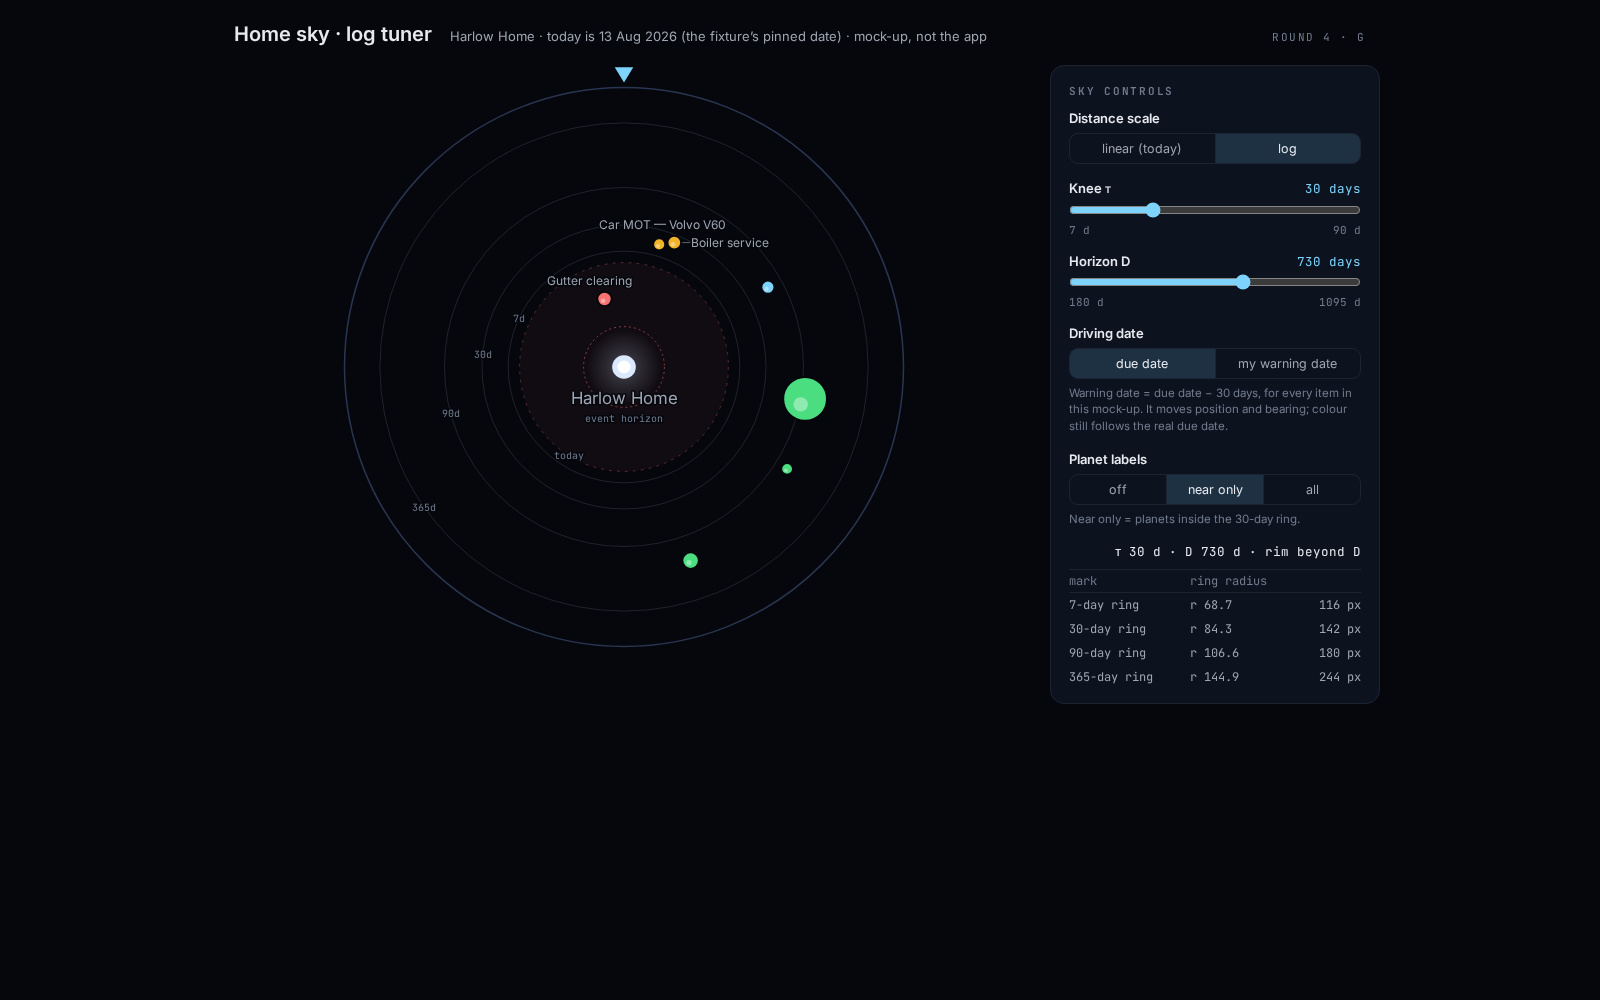
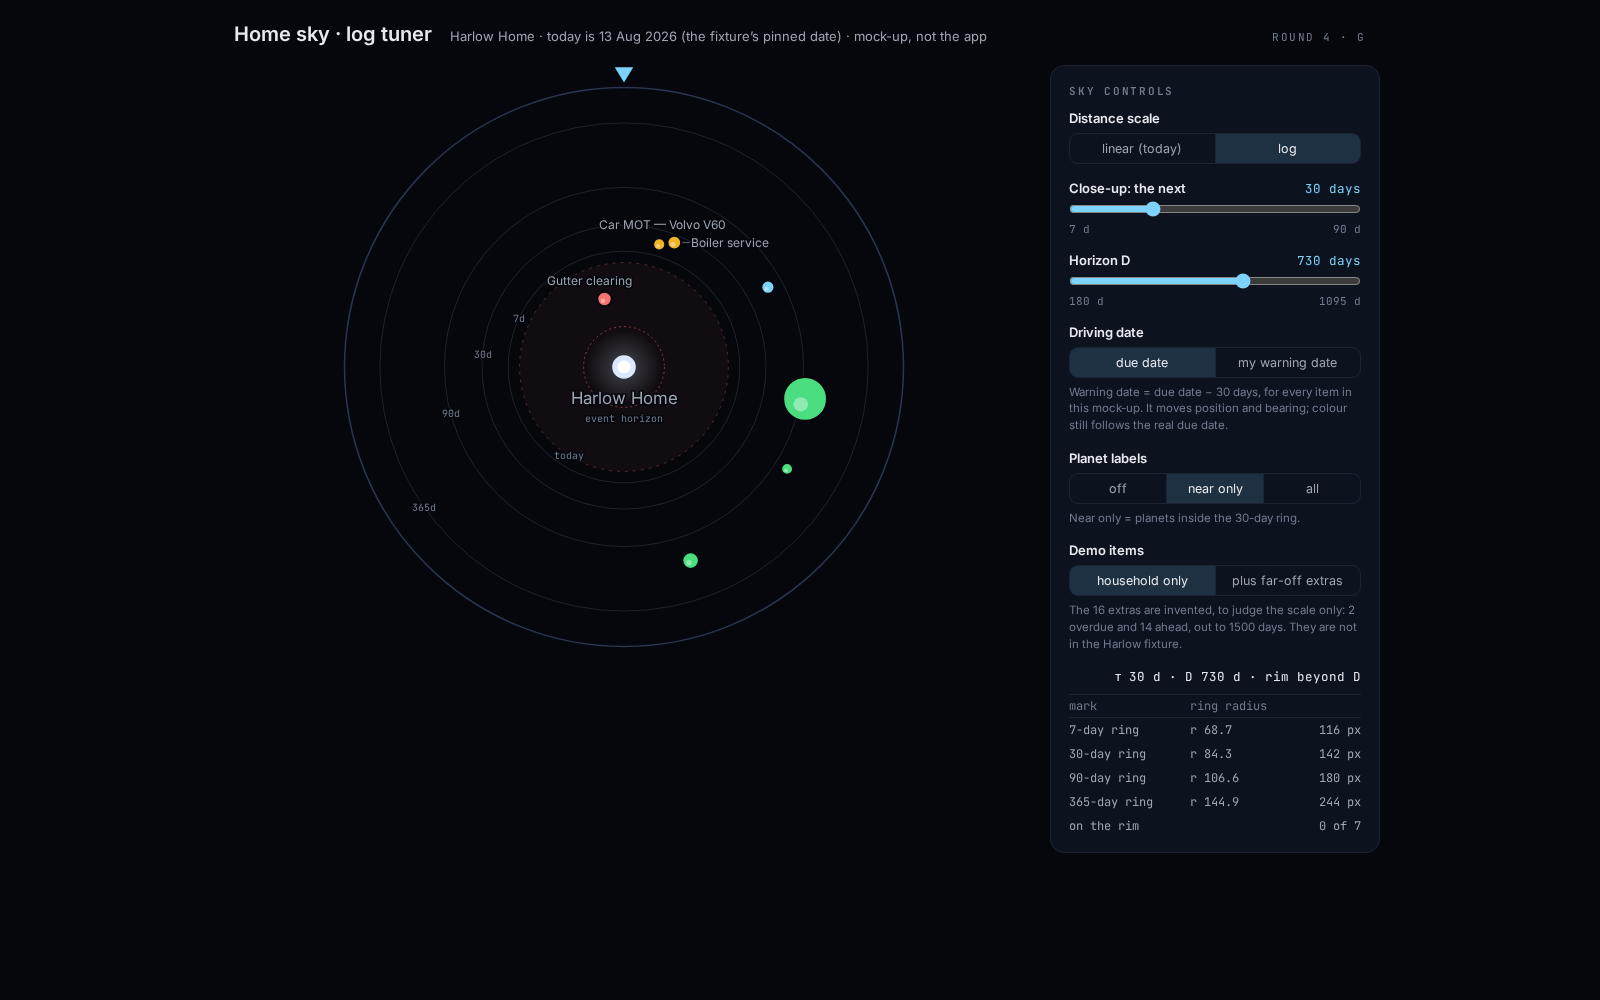
design(v19 round 4): G tuner gets a demo-items switch with far-off extras
Add a Demo items switch (household only / plus far-off extras) to the G log
tuner: 16 invented items out to 1500 days, drawn by the same rules, with items
on the rim spread along it by the smallest angle that clears and the readout
counting how many are on the rim. With extras on, planets that would touch are
nudged apart by angle too. README lists the extras and uses close-up (tau)
for knee. New shot g-desk-extras-tau10-d365.png; the G shots are re-captured
for the new panel.

Why: seven items, none beyond two years, are not enough far-off demo data to
judge the scale (owner, 2026-11-01).

(cherry picked from commit e138662e5aa0cd9675fe9852f5126e6d95fd1b55)

diff --git a/design/v19/home-sun/round-4/g-log-tuner.html b/design/v19/home-sun/round-4/g-log-tuner.html
@@ -134,6 +134,10 @@ body[data-scene=phone] .scene-phone{display:block}
         <div class="seg"><label><input type="radio" name="labels" value="off">off</label><label><input type="radio" name="labels" value="near" checked>near only</label><label><input type="radio" name="labels" value="all">all</label></div>
         <p class="hint">Near only = planets inside the 30-day ring.</p>
       </fieldset>
+      <fieldset><legend>Demo items</legend>
+        <div class="seg"><label><input type="radio" name="extras" value="off" checked>household only</label><label><input type="radio" name="extras" value="on">plus far-off extras</label></div>
+        <p class="hint">The 16 extras are invented, to judge the scale only: 2 overdue and 14 ahead, out to 1500 days. They are not in the Harlow fixture.</p>
+      </fieldset>
       <table class="read" aria-live="polite"><thead><tr><th colspan="3" class="sum" id="sum"></th></tr><tr><th>mark</th><th>ring radius</th><th></th></tr></thead><tbody id="readout"></tbody></table>
     </aside>
   </div>
@@ -142,7 +146,7 @@ body[data-scene=phone] .scene-phone{display:block}
   <div class="phone">
     <div class="bar"><b>Harlow Home</b><span>sky</span></div>
     <div class="stage" id="pstage"><div id="psky"></div></div>
-    <p class="note">Log scale at the starting values (knee 30 d, horizon 730 d), driven by the due date. Labels: near only. The controls are desk-only.</p>
+    <p class="note">Log scale at the starting values (close-up 30 d, horizon 730 d), driven by the due date. Labels: near only. The controls are desk-only.</p>
   </div>
 </section>
 
@@ -170,8 +174,33 @@ const SKY = (() => {
     { id: 'smoke',   title: 'Smoke alarm batteries', due: '2026-12-13', cost: 1200,    rec: 6,  docs: 0, imp: 'low' },
     { id: 'svc',     title: 'Car full service',      due: '2027-01-21', cost: 30000,   rec: 12, docs: 2, imp: null },
   ];
+  /* Invented items for the scale question only (G's "Demo items" switch): days from
+     the fixture's today, yearly cost in pounds. Not in the fixture; household
+     items are never changed by them. */
+  const EXTRA_ROWS = [
+    ['window',   'Window cleaner',            -3,   180],
+    ['bike',     'Bike service',              -20,  60],
+    ['tv',       'TV licence',                2,    170],
+    ['salt',     'Water softener salt',       4,    90],
+    ['home-ins', 'Home insurance',            12,   640],
+    ['car-ins',  'Car insurance',             18,   720],
+    ['gas',      'Gas safety certificate',    45,   95],
+    ['alarm',    'Smoke alarm replacement',   60,   40],
+    ['eicr',     'EICR electrical check',     120,  180],
+    ['lic-sam',  'Driving licence — Sam',     200,  14],
+    ['pass-alex','Passport — Alex',           280,  88],
+    ['b-warr',   'Boiler warranty',           420,  0],
+    ['r-guar',   'Roof guarantee',            540,  0],
+    ['mortgage', 'Mortgage fix ends',         800,  0],
+    ['pass-sam', 'Passport — Sam',            1100, 88],
+    ['will',     'Will review',               1500, 250],
+  ];
+  const EXTRAS = EXTRA_ROWS.map(([id, title, days, pounds]) => ({
+    id, title, due: new Date(Date.parse(TODAY) + days * 864e5).toISOString().slice(0, 10),
+    cost: pounds * 100, rec: 12, docs: 0, imp: null, extra: true,
+  }));
   const daysBetween = (a, b) => Math.round((Date.parse(b) - Date.parse(a)) / 864e5);
-  ITEMS.forEach((it) => { it.days = daysBetween(TODAY, it.due); });
+  [...ITEMS, ...EXTRAS].forEach((it) => { it.days = daysBetween(TODAY, it.due); });
 
   const bandOf = (d) => (d < 0 ? 'overdue' : d <= 30 ? 'due-soon' : d <= 90 ? 'upcoming' : 'ok');
   const BAND_VAR = { overdue: '--overdue', 'due-soon': '--warm', upcoming: '--upcoming', ok: '--ok' };
@@ -267,11 +296,38 @@ const SKY = (() => {
     opts.name = opts.name || 'Harlow Home';
     const p = { mode: opts.mode, tau: opts.tau, D: opts.D };
     const shift = opts.driver === 'warn' ? 30 : 0;
-    const geo = ITEMS.map((it) => {
+    const items = opts.extras ? ITEMS.concat(EXTRAS) : ITEMS;
+    const geo = items.map((it) => {
       const d = it.days - shift;
       const ru = radiusU(d, p), th = bearing(d), rpx = ru * S;
       const sz = sizeU(it, sc.size);
-      return { it, d, ru, theta: th, rpx, x: sc.CX + Math.cos(th) * rpx, y: sc.CY + Math.sin(th) * rpx, pr: sz * S, sz };
+      return { it, d, ru, theta: th, rpx, x: sc.CX + Math.cos(th) * rpx, y: sc.CY + Math.sin(th) * rpx, pr: sz * S, sz, rim: d >= 0 && ru >= U.RIM - 1e-6 };
+    });
+    /* Items on the rim: the bearing clamp stacks them on one angle, so spread them
+       along the rim. The first seated keeps its own bearing; each later one takes the
+       smallest angle shift (either side) that clears every planet already placed. */
+    /* With the demo extras on, every planet gets the same treatment (the extras
+       crowd the near bearings too): household items seat first, inner before outer,
+       and only a planet that would touch one already seated is moved. Household
+       only, just the rim items are spread. */
+    const all = Boolean(opts.extras);
+    const movers = geo.filter((g) => (all ? true : g.rim))
+      .sort((a, b) => (a.it.extra ? 1 : 0) - (b.it.extra ? 1 : 0) || a.ru - b.ru || a.d - b.d);
+    const seated = geo.filter((g) => !movers.includes(g));
+    movers.forEach((g) => {
+      const free = (th) => {
+        const x = sc.CX + Math.cos(th) * g.rpx, y = sc.CY + Math.sin(th) * g.rpx;
+        return seated.every((o) => Math.hypot(o.x - x, o.y - y) >= o.pr + g.pr + 3) ? { x, y } : null;
+      };
+      for (let k = 0; k <= 1440; k++) {
+        let hit = null;
+        for (const sgn of (k === 0 ? [0] : [1, -1])) {
+          const th = g.theta + sgn * k * 0.25 * Math.PI / 180, f = free(th);
+          if (f) { hit = { th, ...f }; break; }
+        }
+        if (hit) { g.theta = hit.th; g.x = hit.x; g.y = hit.y; break; }
+      }
+      seated.push(g);
     });
     const near = radiusU(30, p) * S;           // "near only": inside the 30-day ring
     const wanted = geo.filter((g) => opts.labels === 'all' || (opts.labels === 'near' && g.rpx < near - 0.01))
@@ -294,7 +350,7 @@ const SKY = (() => {
     const labels = placeLabels(wanted, geo.map((g) => ({ x: g.x, y: g.y, pr: g.pr + (opts.pad || 0) })), fixed, sc);
 
     const c = (u) => fx(u * S);
-    let svg = `<svg width="${sc.W}" height="${sc.H}" viewBox="0 0 ${sc.W} ${sc.H}" role="img" aria-label="Harlow Home sky: ${ITEMS.length} planets">`;
+    let svg = `<svg width="${sc.W}" height="${sc.H}" viewBox="0 0 ${sc.W} ${sc.H}" role="img" aria-label="Harlow Home sky: ${items.length} planets">`;
     svg += `<defs><radialGradient id="sunglow-${opts.scene}"><stop offset="0" stop-color="#dbe9ff" stop-opacity=".55"/><stop offset=".35" stop-color="#dbe9ff" stop-opacity=".16"/><stop offset="1" stop-color="#dbe9ff" stop-opacity="0"/></radialGradient></defs>`;
     /* the dial's furniture */
     svg += `<circle cx="${sc.CX}" cy="${sc.CY}" r="${c(U.ZERO)}" fill="rgba(248,113,113,.05)"/>`;
@@ -363,7 +419,7 @@ const SKY = (() => {
     el.classList.add('show');
   }
 
-  return { ITEMS, SCENES, U, radiusU, bearing, sizeU, render, callout, tminus, money, bandOf, BAND_VAR, fx, TODAY };
+  return { ITEMS, EXTRAS, SCENES, U, radiusU, bearing, sizeU, render, callout, tminus, money, bandOf, BAND_VAR, fx, TODAY };
 })();
 
 /* the highlight dot every dial body wears from r >= 4 (home +page.svelte bodyMark) */
@@ -373,6 +429,7 @@ const q = new URLSearchParams(location.search);
 const st = {
   mode: q.get('mode') || 'log', tau: +(q.get('tau') || 30), D: +(q.get('D') || 730),
   driver: q.get('driver') || 'due', labels: q.get('labels') || 'near',
+  extras: ['on', '1'].includes(q.get('extras')) ? 'on' : 'off',
 };
 const paintG = (it, g) => {
   const col = `var(${SKY.BAND_VAR[SKY.bandOf(it.days)]})`;
@@ -380,7 +437,7 @@ const paintG = (it, g) => {
 };
 const gsky = document.getElementById('gsky');
 function drawDesk() {
-  SKY.render(gsky, { scene: 'desk', mode: st.mode, tau: st.tau, D: st.D, driver: st.driver, labels: st.labels, rings: true, paint: paintG });
+  const { geo } = SKY.render(gsky, { scene: 'desk', mode: st.mode, tau: st.tau, D: st.D, driver: st.driver, labels: st.labels, extras: st.extras === 'on', rings: true, paint: paintG });
   document.getElementById('o-tau').textContent = st.tau + ' days';
   document.getElementById('o-D').textContent = st.D + ' days';
   document.getElementById('tau').value = st.tau;
@@ -394,13 +451,14 @@ function drawDesk() {
     : `\u03c4 ${st.tau} d \u00b7 D ${st.D} d \u00b7 rim beyond D`;
   const p = { mode: st.mode, tau: st.tau, D: st.D };
   document.getElementById('readout').innerHTML = [7, 30, 90, 365].map((d) =>
-    `<tr><td>${d}-day ring</td><td>r ${SKY.radiusU(d, p).toFixed(1)}</td><td>${(SKY.radiusU(d, p) * SKY.SCENES.desk.S).toFixed(0)} px</td></tr>`).join('');
-  for (const [name, val] of [['mode', st.mode], ['driver', st.driver], ['labels', st.labels]]) {
+    `<tr><td>${d}-day ring</td><td>r ${SKY.radiusU(d, p).toFixed(1)}</td><td>${(SKY.radiusU(d, p) * SKY.SCENES.desk.S).toFixed(0)} px</td></tr>`).join('')
+    + `<tr><td colspan="2">on the rim</td><td>${geo.filter((g) => g.rim).length} of ${geo.length}</td></tr>`;
+  for (const [name, val] of [['mode', st.mode], ['driver', st.driver], ['labels', st.labels], ['extras', st.extras]]) {
     for (const r of document.querySelectorAll(`input[name=${name}]`)) r.checked = r.value === val;
   }
   document.body.dataset.crowded = gsky.dataset.crowded;
 }
-for (const name of ['mode', 'driver', 'labels']) {
+for (const name of ['mode', 'driver', 'labels', 'extras']) {
   for (const r of document.querySelectorAll(`input[name=${name}]`)) r.addEventListener('change', () => { st[name] = r.value; drawDesk(); });
 }
 document.getElementById('tau').addEventListener('input', (e) => { st.tau = +e.target.value; drawDesk(); });

diff --git a/design/v19/home-sun/round-4/README.md b/design/v19/home-sun/round-4/README.md
@@ -21,7 +21,7 @@ Quoted from the brief. They are the same in all three files.
   drawn in inline SVG from the Harlow Home items. Same items, positions and
   sizes in every file.
 - Distance is logarithmic. For an item d days ahead,
-  `radius = 62 + (166 - 62) * ln(1 + d/tau) / ln(1 + D/tau)`, knee tau = 30
+  `radius = 62 + (166 - 62) * ln(1 + d/tau) / ln(1 + D/tau)`, close-up (τ) = 30
   days and horizon D = 730 days as the starting values; beyond D the planet
   sits on the rim.
 - Overdue items (d < 0) fall inward on the mirror curve toward the event
@@ -61,6 +61,8 @@ no importance field. Three high, two low and one not set is the brief's split;
 with seven items that leaves one normal, so "most normal" could not be met
 (see the decisions below). Overdue by due date: only Gutter clearing.
 
+G's panel has a "Demo items" switch (household only / plus far-off extras), off by default; the extras are invented for the scale question only, because seven items none beyond two years cannot show how far-off items crowd the rim. They are, in days from today and yearly cost: Window cleaner -3 d £180, Bike service -20 d £60, TV licence 2 d £170, Water softener salt 4 d £90, Home insurance 12 d £640, Car insurance 18 d £720, Gas safety certificate 45 d £95, Smoke alarm replacement 60 d £40, EICR electrical check 120 d £180, Driving licence (Sam) 200 d £14, Passport (Alex) 280 d £88, Boiler warranty 420 d £0, Roof guarantee 540 d £0, Mortgage fix ends 800 d £0, Passport (Sam) 1100 d £88, Will review 1500 d £250.
+
 ## The directions
 
 ### G, log tuner (`g-log-tuner.html`): #1464, #1462, #1461 together, interactive
@@ -83,7 +85,9 @@ when the warning date drives the position, so a planet inside its warning
 window is not painted as overdue.
 
 Deep links for reproducing a state: `?tau=14&labels=all`, `?mode=linear`,
-`?driver=warn`, `?D=365`, `?scene=phone`.
+`?driver=warn`, `?D=365`, `?scene=phone`, `?extras=on` (the demo items; with them
+on, planets that would touch are also nudged apart by angle, smallest shift first;
+`shots/g-desk-extras-tau10-d365.png`).
 
 ### H, importance as weight (`h-importance-weights.html`): #1463
 One hue family. High = the after-dark accent at full strength with a 2 px
